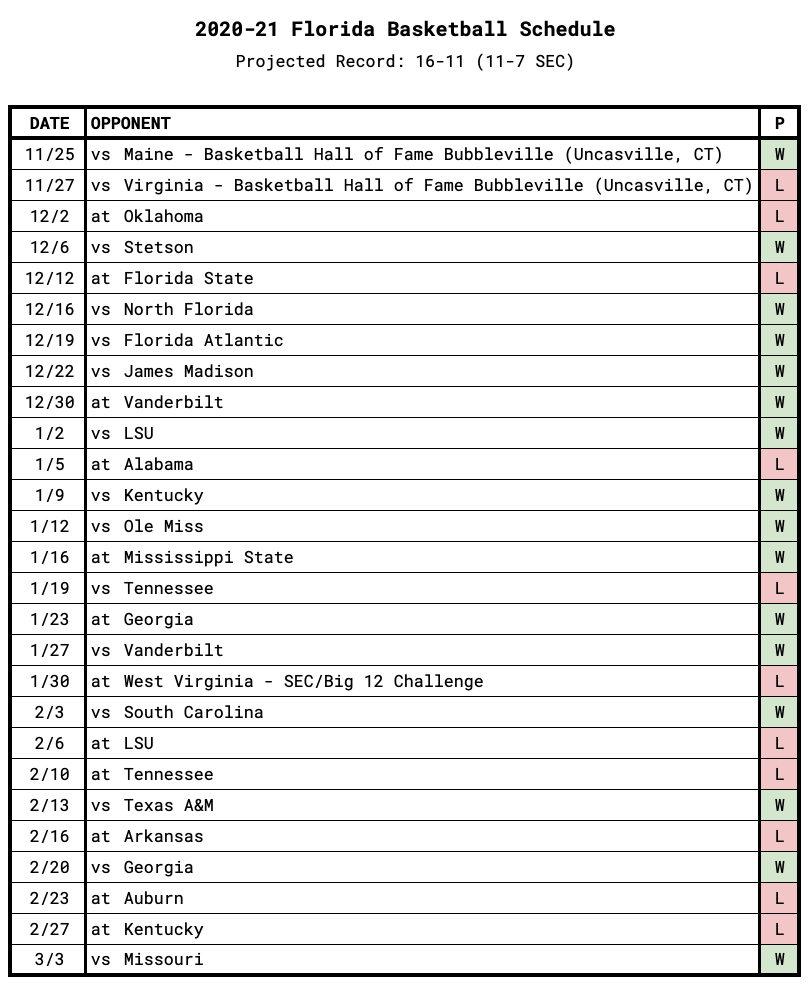
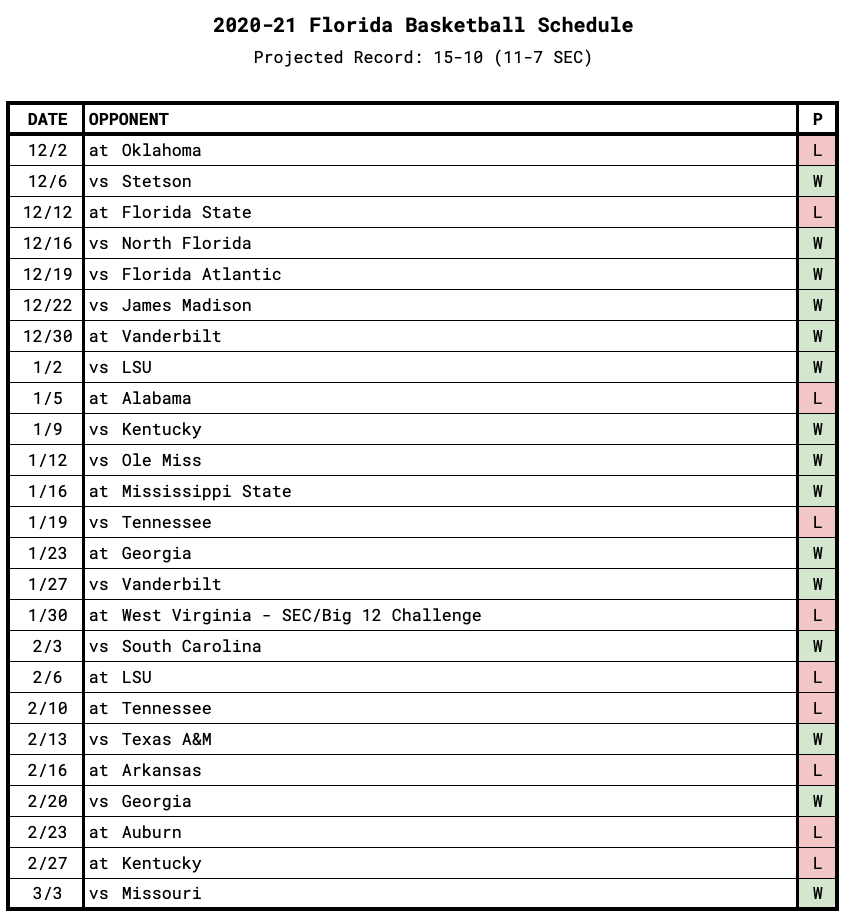
Updated Florida predictions post

Changed region(s): [[0.0, 0.0, 1.0, 1.0]]

diff --git a/_posts/2020-11-11-2020-2021-sec-basketball-team-previews-florida-gators.md b/_posts/2020-11-11-2020-2021-sec-basketball-team-previews-florida-gators.md
@@ -45,9 +45,11 @@ The three returning starters all hold onto their starting spots and then the fin
 
 Florida won't have much time to get accustomed to a new year of college basketball as they have major games against Virginia, Oklahoma, and Florida State all within the first month and all three are away from home. I have the Gators losing each of those, but if they can win one of those or at least all of their other non-conference games, they should set themselves up well enough where a nice run in the SEC can secure them a tournament spot.
 
-In SEC play, I have the Gators as one of the second tier teams and I think their schedule will play out where they find themselves tied with Alabama and South Carolina in the final standings but the tiebreaker will benefit them the most. Florida is fortunate to have Kentucky only at home, but they also have to travel to West Virginia in the middle of league play for the SEC/Big 12 Challenge.
+In SEC play, I have the Gators as one of the second-tier teams and I think their schedule will play out where they find themselves tied with Alabama and South Carolina in the final standings but the tiebreaker will benefit them the most. Florida is fortunate to have Kentucky only at home, but they also have to travel to West Virginia in the middle of league play for the SEC/Big 12 Challenge.
 
 I'm hesitant to put a lot of faith in Mike White's team again this year, but I think they'll start clicking once they get to SEC play again and the talent should be enough to handle games they should win and pull off enough wins against better competition.
+
+*EDIT: Florida had a COVID instance reported on 11/22 and will not travel to Mohegan Sun to face UMass Lowell and Virginia as previously scheduled. The updated schedule and predictions are below.*
 
 ![Florida Game-by-Game Projections][image4]
 
